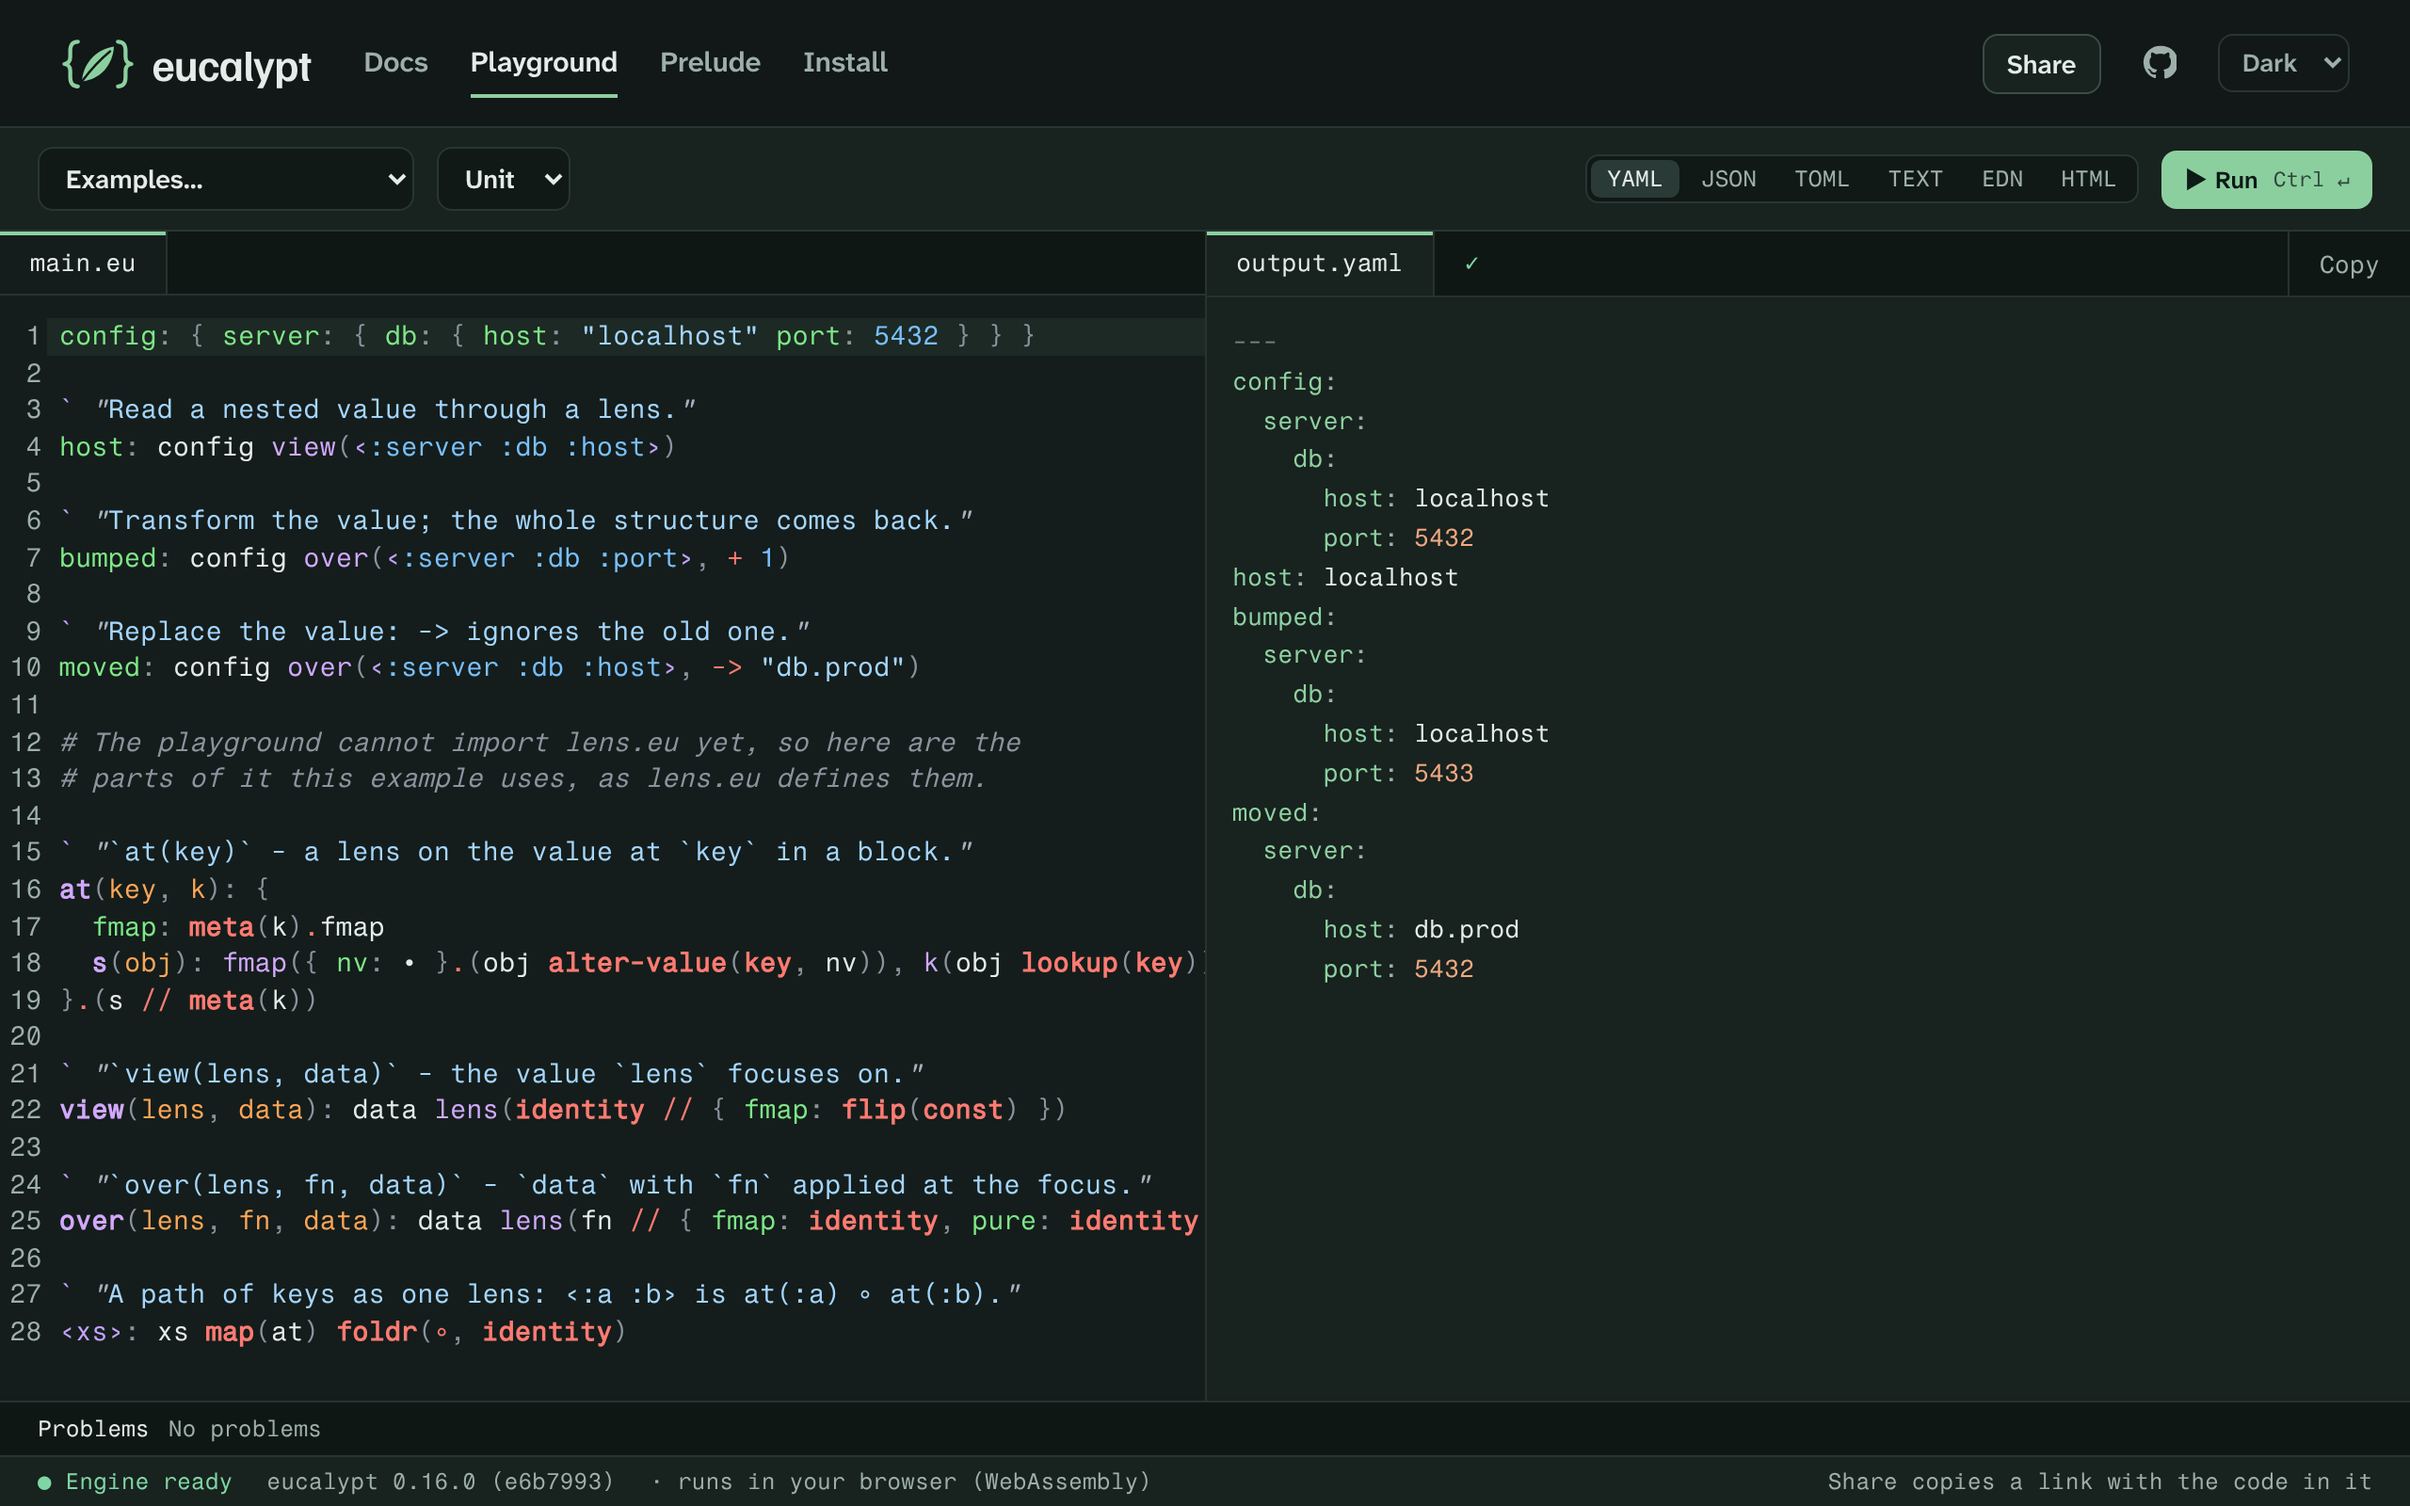
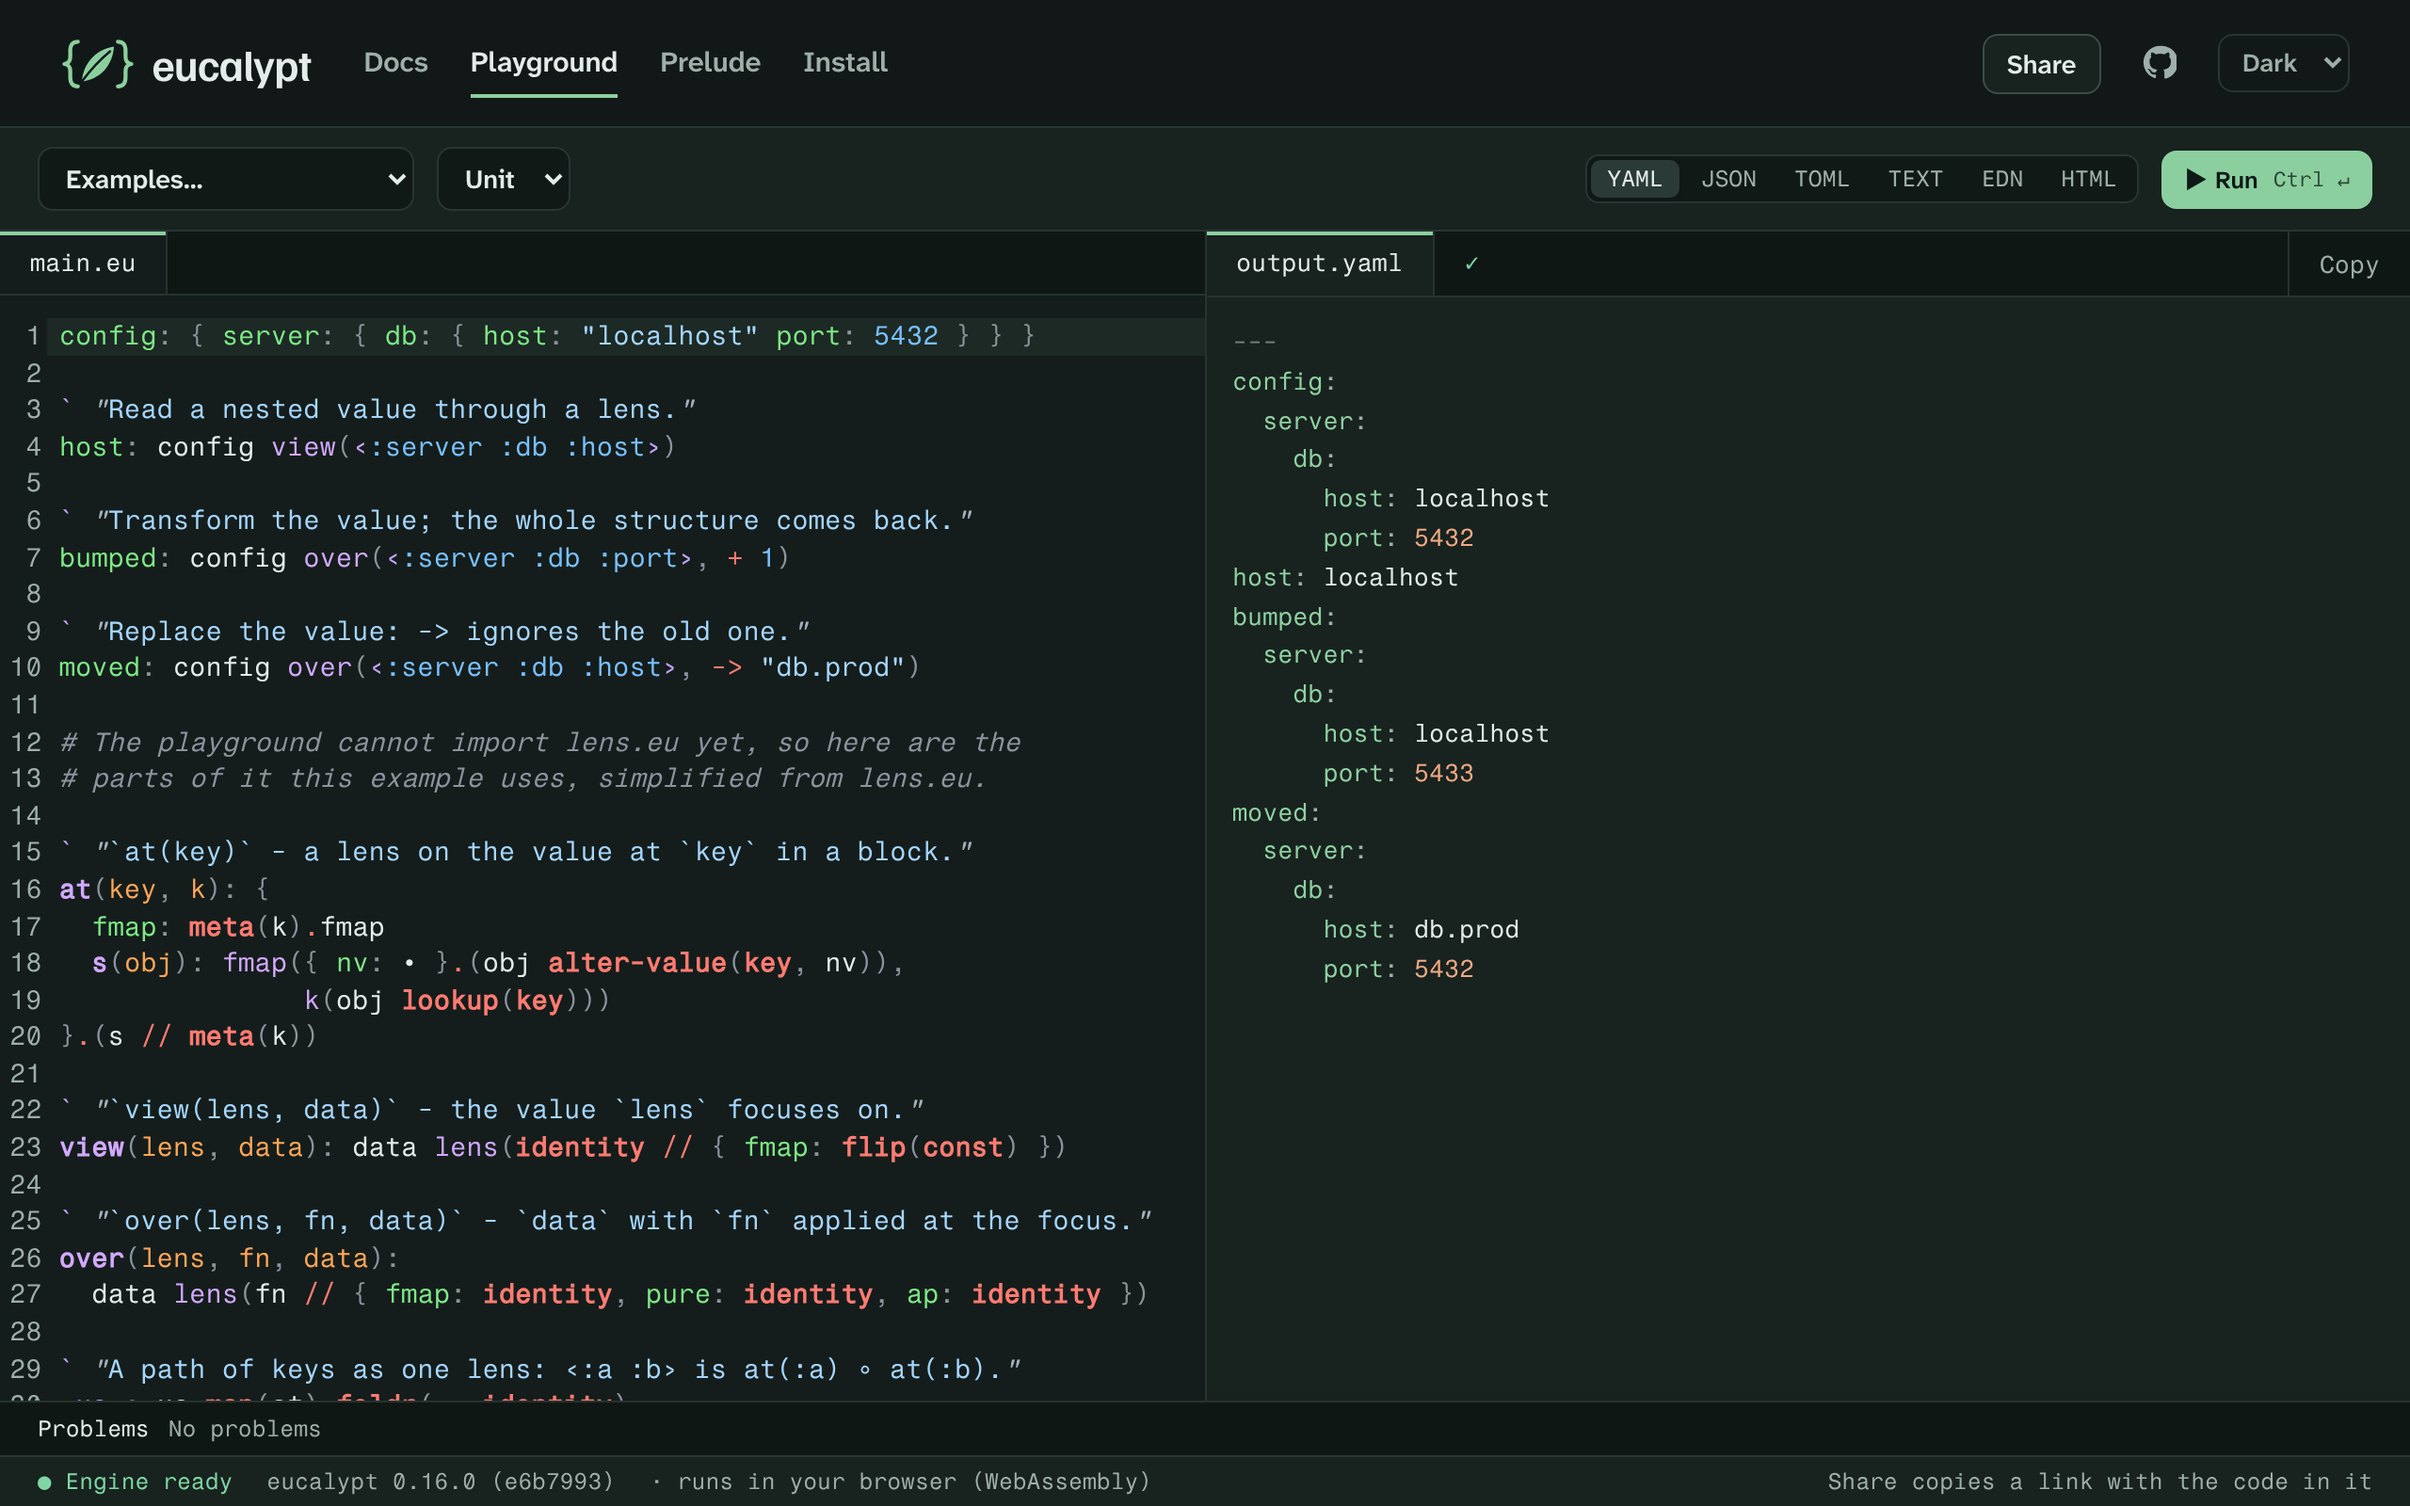
Tighten the spacing test and wrap the Lenses example's long lines
The spacing test now also catches a doc string or comment directly after
a definition. The Lenses comment says its definitions are simplified from
lens.eu, and its two long lines wrap to fit the editor.

Changed region(s): [[0.0312, 0.6562, 0.5, 0.9375], [0.25, 0.5, 0.4062, 0.5312], [0.375, 0.625, 0.5, 0.6562]]

diff --git a/src/examples.ts b/src/examples.ts
@@ -165,19 +165,21 @@ bumped: config over(‹:server :db :port›, + 1)
 moved: config over(‹:server :db :host›, -> "db.prod")
 
 # The playground cannot import lens.eu yet, so here are the
-# parts of it this example uses, as lens.eu defines them.
+# parts of it this example uses, simplified from lens.eu.
 
 \` "\`at(key)\` - a lens on the value at \`key\` in a block."
 at(key, k): {
   fmap: meta(k).fmap
-  s(obj): fmap({ nv: • }.(obj alter-value(key, nv)), k(obj lookup(key)))
+  s(obj): fmap({ nv: • }.(obj alter-value(key, nv)),
+               k(obj lookup(key)))
 }.(s // meta(k))
 
 \` "\`view(lens, data)\` - the value \`lens\` focuses on."
 view(lens, data): data lens(identity // { fmap: flip(const) })
 
 \` "\`over(lens, fn, data)\` - \`data\` with \`fn\` applied at the focus."
-over(lens, fn, data): data lens(fn // { fmap: identity, pure: identity, ap: identity })
+over(lens, fn, data):
+  data lens(fn // { fmap: identity, pure: identity, ap: identity })
 
 \` "A path of keys as one lens: ‹:a :b› is at(:a) ∘ at(:b)."
 ‹xs›: xs map(at) foldr(∘, identity)`,

diff --git a/tests/examples.test.ts b/tests/examples.test.ts
@@ -48,12 +48,14 @@ describe("playground examples", () => {
       if (mode === "expr") continue;
       const lines = source.split("\n");
       for (let n = 1; n < lines.length; n++) {
-        // A top-level line that starts a definition, after a line that is
-        // neither blank nor its own doc string or comment.
-        const starts = /^[^\s#`]/.test(lines[n]);
+        // A line at the left margin opens a definition, or the doc string
+        // or comment above one; closing brackets end the one before.
+        const opens = /^[^\s}\]]/.test(lines[n]);
+        // It must follow a blank line, or the doc string or comment it
+        // belongs to.
         const prev = lines[n - 1];
-        const attached = prev === "" || prev.startsWith("`") || prev.startsWith("#") || /^\s/.test(prev);
-        expect(starts && !attached && !/^[}\]]/.test(lines[n]), `${name}, line ${n + 1}`).toBe(false);
+        const ok = prev === "" || prev.startsWith("`") || prev.startsWith("#");
+        expect(opens && !ok, `${name}, line ${n + 1}`).toBe(false);
       }
     }
   });
